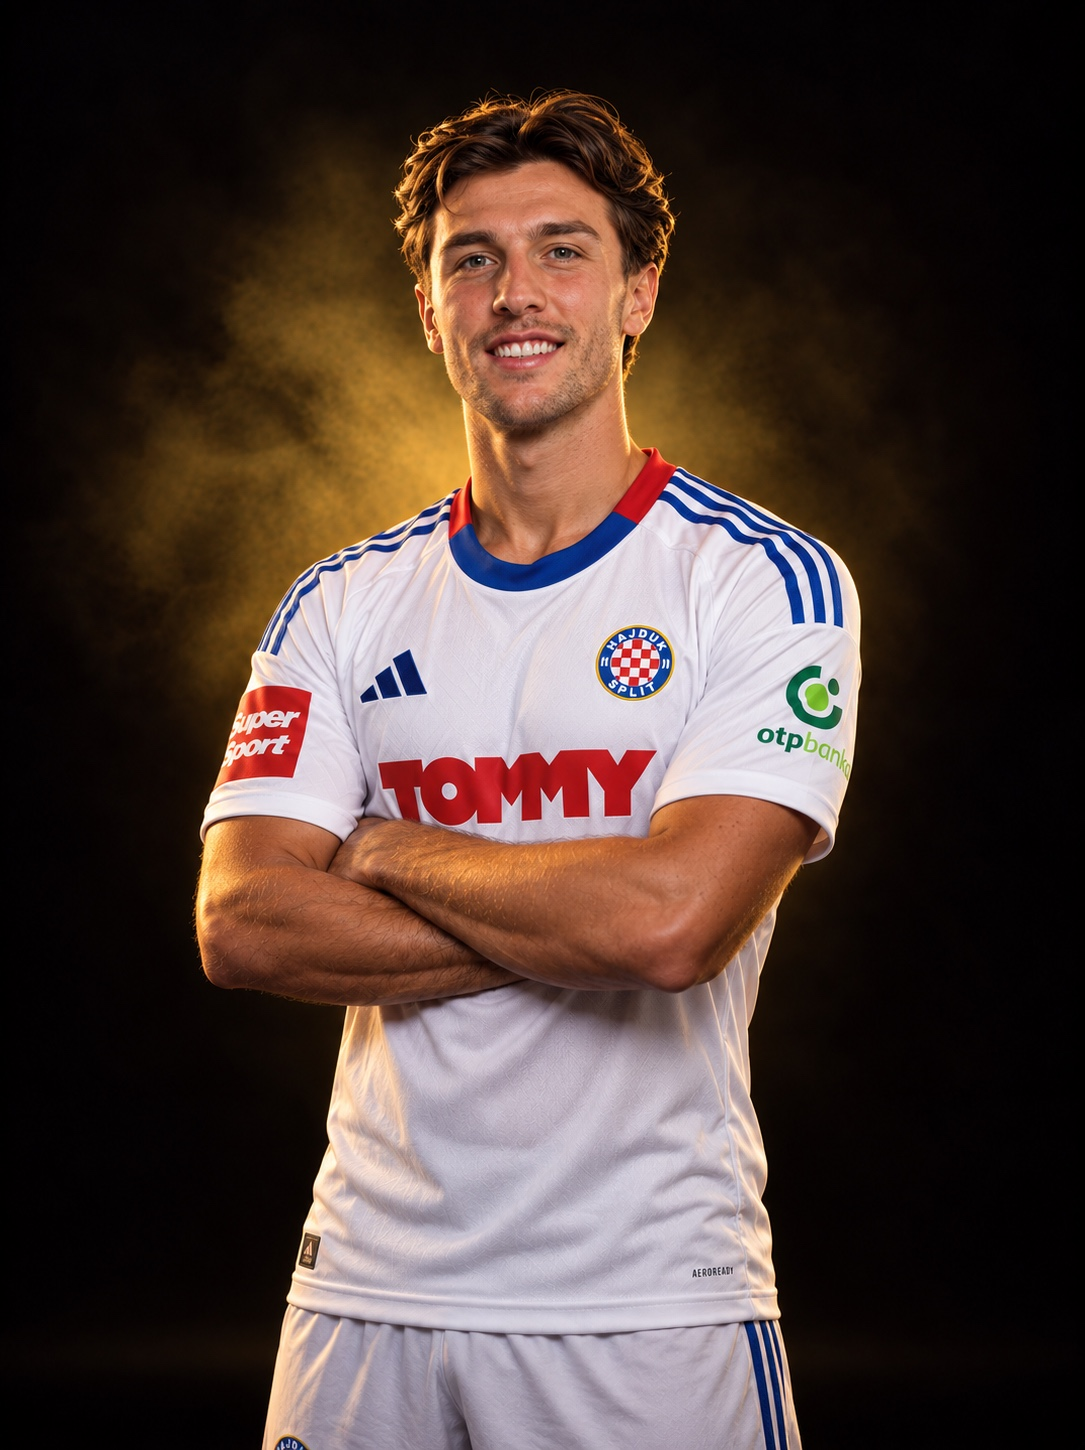
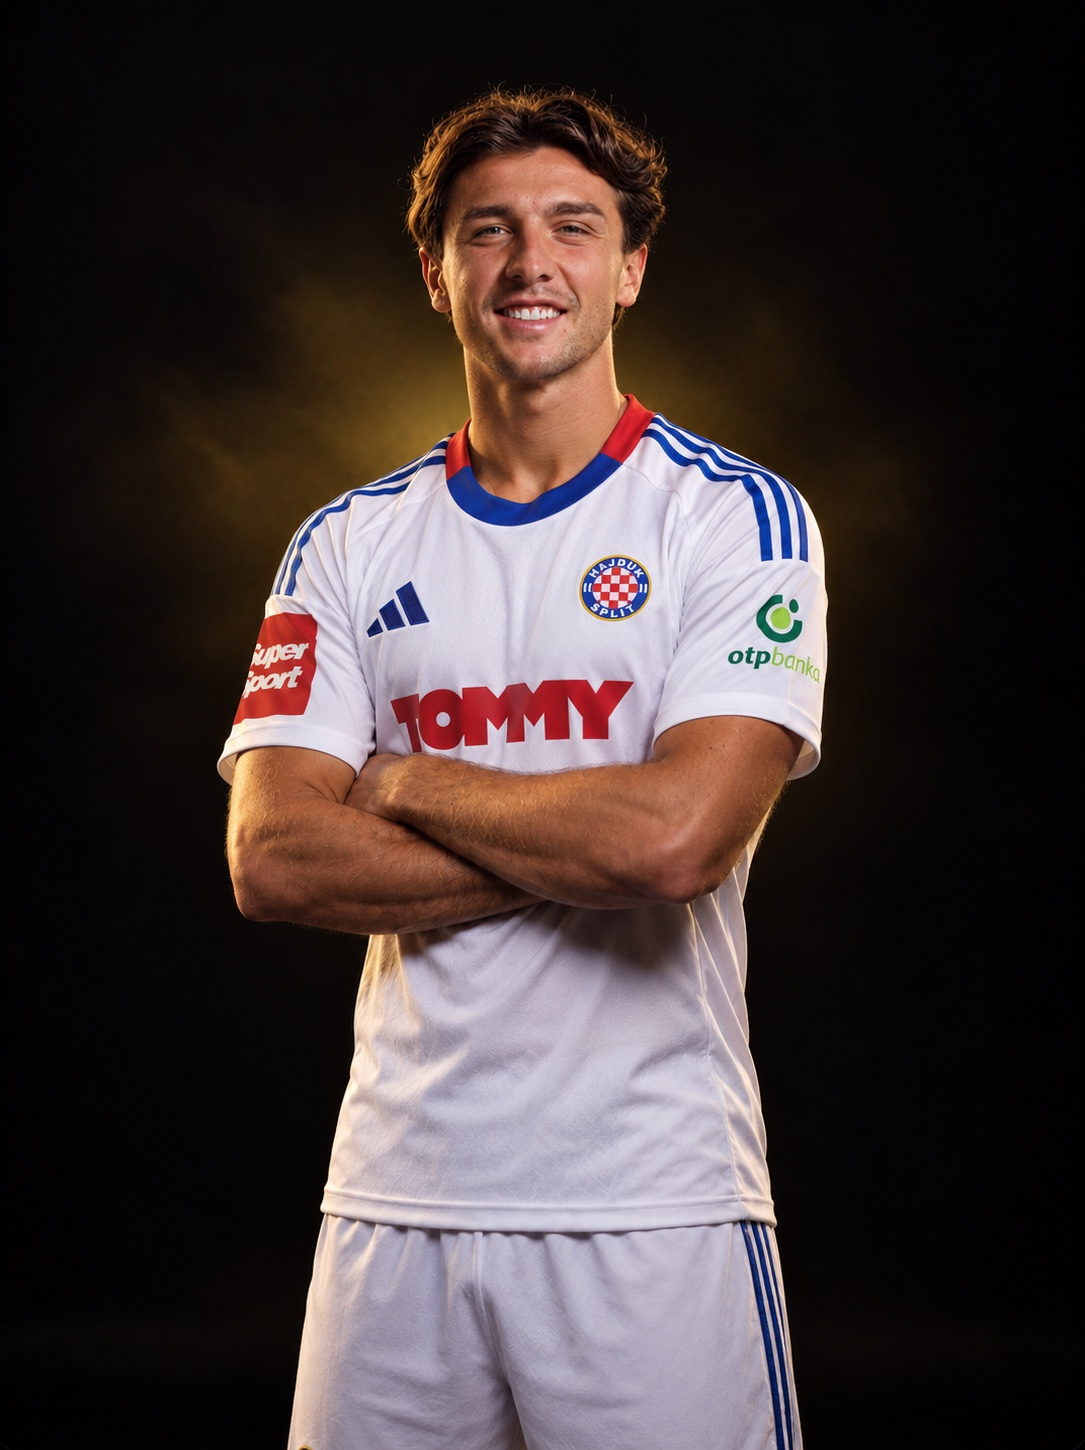
roster: fotos de estudio para los puestos 11 a 20 y retoque de cinco de los diez primeros
Juanjo Sánchez, Carlos Guirao, Francisco Dias, Dani Muñoz, Christian
Manrique, Dimitar Danev, Roberto Olabe, Alessandro Burlamaqui, Axel Montaña
y Luis Quintero pasan a la serie de estudio. Juan Cruz, Dani Requena, Javi
Hernández, Alberto Del Moral y Owen Emeka cambian a la versión con el
resplandor más suave, así que las veinte primeras tarjetas quedan iguales.

Las fotos de Carlos Guirao (camiseta del Leganés) y Dimitar Danev (selección
de Macedonia del Norte) no enseñan el club de su ficha; ya pasaba con las
anteriores y queda anotado como pendiente de Mario.

diff --git a/docs/hallazgos-abiertos.md b/docs/hallazgos-abiertos.md
@@ -102,18 +102,34 @@ Gonzalo Rodríguez, Fran Manzanara, Santi Pallarés, Boston Billups y Álex
 Domínguez) y el resto va pasando a la serie de estudio de abajo.
 
 **Desde el 2026-09-25 las fotos son una serie de estudio que prepara Mario**: todas
-con el mismo fondo oscuro, posado de brazos cruzados y la camiseta del club actual.
+con el mismo fondo oscuro, posado de brazos cruzados y, salvo las dos excepciones de
+abajo, la camiseta del club actual.
 Las va entregando por tandas y se sustituyen en el orden del grid. Mientras no
 estén todas, el grid mezcla las de estudio con las antiguas.
 
-**Hechas con la serie de estudio (10)**, las diez primeras posiciones: Juan Cruz,
-Dani Requena, Mati Barzic, Iker Luque, Javi Hernández, Alberto Del Moral, Thiago
-Helguera, Owen Emeka, Salim El-Jebari y Damián Cáceres. Con ellas se cierran dos
-pendientes de la vía anterior: la foto de Alberto Del Moral que esperaba visto bueno
-y la de Mati Barzic, que era corta de resolución (619×825). El 2026-09-28 Mario
-rehízo cinco de ellas (Damián Cáceres, Iker Luque, Mati Barzic, Salim El-Jebari y
-Thiago Helguera) con menos resplandor dorado detrás, y las nuevas sustituyeron a las
-primeras. Una foto ya aplicada puede volver a llegar retocada: se sustituye igual.
+**Hechas con la serie de estudio (20)**, las posiciones 1 a 20 del grid a
+2026-09-30: Juan Cruz, Dani Requena, Mati Barzic, Iker Luque, Javi Hernández,
+Alberto Del Moral, Thiago Helguera, Owen Emeka, Salim El-Jebari, Damián Cáceres,
+Juanjo Sánchez, Carlos Guirao, Francisco Dias, Dani Muñoz, Christian Manrique,
+Dimitar Danev, Roberto Olabe, Alessandro Burlamaqui, Axel Montaña y Luis Quintero.
+Con ellas se cierran dos pendientes de la vía anterior: la foto de Alberto Del Moral
+que esperaba visto bueno y la de Mati Barzic, que era corta de resolución (619×825).
+
+**Las diez primeras llegaron dos veces.** La primera versión llevaba un resplandor
+dorado muy fuerte detrás; Mario las rehízo más suaves (cinco el 2026-09-28 y las
+otras cinco el 2026-09-30) y las nuevas sustituyeron a las primeras. Desde la
+posición 11 ya llegan con el resplandor suave. Una foto ya aplicada puede volver a
+llegar retocada: se sustituye igual.
+
+**Dos fotos de estudio no enseñan el club de la ficha**, pendiente de Mario (a
+2026-09-30). Las dos se aplicaron igual porque la foto anterior tenía ya la misma
+camiseta, así que no empeoran nada:
+- **Carlos Guirao** lleva la del **CD Leganés** y la ficha dice CD Eldense. Según el
+  barrido del 2026-09-05 (más abajo), el Leganés es su club anterior y en Drive no hay
+  material del Eldense.
+- **Dimitar Danev** lleva la de la **selección de Macedonia del Norte** (escudo de la
+  federación, ФФМ) y la ficha dice Vardar Skopje. Es internacional con esa selección
+  (`nationalTeamCodes: ["MK"]`), pero la tarjeta muestra el club.
 
 **Cómo se aplica una tanda**: llegan en PNG de unos 1085×1450 (3:4; alguna varía en
 un par de píxeles), sin perfil de color,
@@ -176,7 +192,8 @@ entre dos de acción gana la del jugador aislado sobre la que tiene un rival enc
 Delgado, Ognjen Teofilovic, Rayan Zinebi y Salim El-Jebari. En todos ellos el material
 es del club anterior. No es que no se hayan buscado: no están. Volver a mirar cuando el
 fotógrafo suba material nuevo. De los siete, a 2026-09-25 están visibles todos
-menos Ognjen Teofilovic, y Salim El-Jebari ya tiene la de estudio.
+menos Ognjen Teofilovic. Salim El-Jebari y Carlos Guirao ya tienen la de estudio,
+pero la de Guirao sigue con la camiseta del club anterior (arriba).
 
 ### Backlog de rendimiento (medido el 2026-08-18)
 

diff --git a/ARCHITECTURE.md b/ARCHITECTURE.md
@@ -469,7 +469,7 @@ que ejecutar nada a mano.
 |---|---|---|
 | Logo SVG | ✅ En `/public/logo.svg` | |
 | Foto hero | ✅ `src/assets/images/hero/portada.png` | Logo en neón, 1672×941. Se ve algo blanda en pantallas retina grandes: falta un original más grande (`docs/hallazgos-abiertos.md`) |
-| Fotos jugadores | ⏳ 44 de los 51 visibles | Las 10 primeras ya son de la serie de estudio nueva; las otras 34, antiguas. Sin ninguna: Abde Raihani, Dani Rebollo, Gonzalo Rodríguez, Fran Manzanara, Santi Pallarés, Boston Billups y Álex Domínguez. Detalle en `docs/hallazgos-abiertos.md` (2026-09-25) |
+| Fotos jugadores | ⏳ 44 de los 51 visibles | Las 20 primeras ya son de la serie de estudio nueva; las otras 24, antiguas. Sin ninguna: Abde Raihani, Dani Rebollo, Gonzalo Rodríguez, Fran Manzanara, Santi Pallarés, Boston Billups y Álex Domínguez. Detalle en `docs/hallazgos-abiertos.md` (2026-09-30) |
 | Escudos de selección | ✅ 9 WebP en `/public/national-team-badges/` | ES, PE, HR, MK, MA, BO, RO, PA, BR. Master PNG en `/assets/source-media/badges/` |
 | Fuente Söhne | ✅ Integrada | Archivos test de Klim — pendiente licencia |
 | OG image (1200×630px) | ❌ Pendiente | |
@@ -478,7 +478,7 @@ que ejecutar nada a mano.
 
 | Pendiente | Bloqueado por |
 |---|---|
-| Fotos de la selección visible: 41 por pasar a la serie de estudio, 7 de ellas sin ninguna foto (2026-09-25) | Cliente |
+| Fotos de la selección visible: 31 por pasar a la serie de estudio, 7 de ellas sin ninguna foto (2026-09-30) | Cliente |
 | OG image 1200×630px | Diseño |
 | GA4 — Measurement ID | Decisión de si se integra |
 | ⚠ Söhne `.woff2` con licencia de producción — **sigue sin comprar a 2026-08-11**, y la web está publicada desde abril con los archivos de prueba | Compra de licencia (Mario) |
